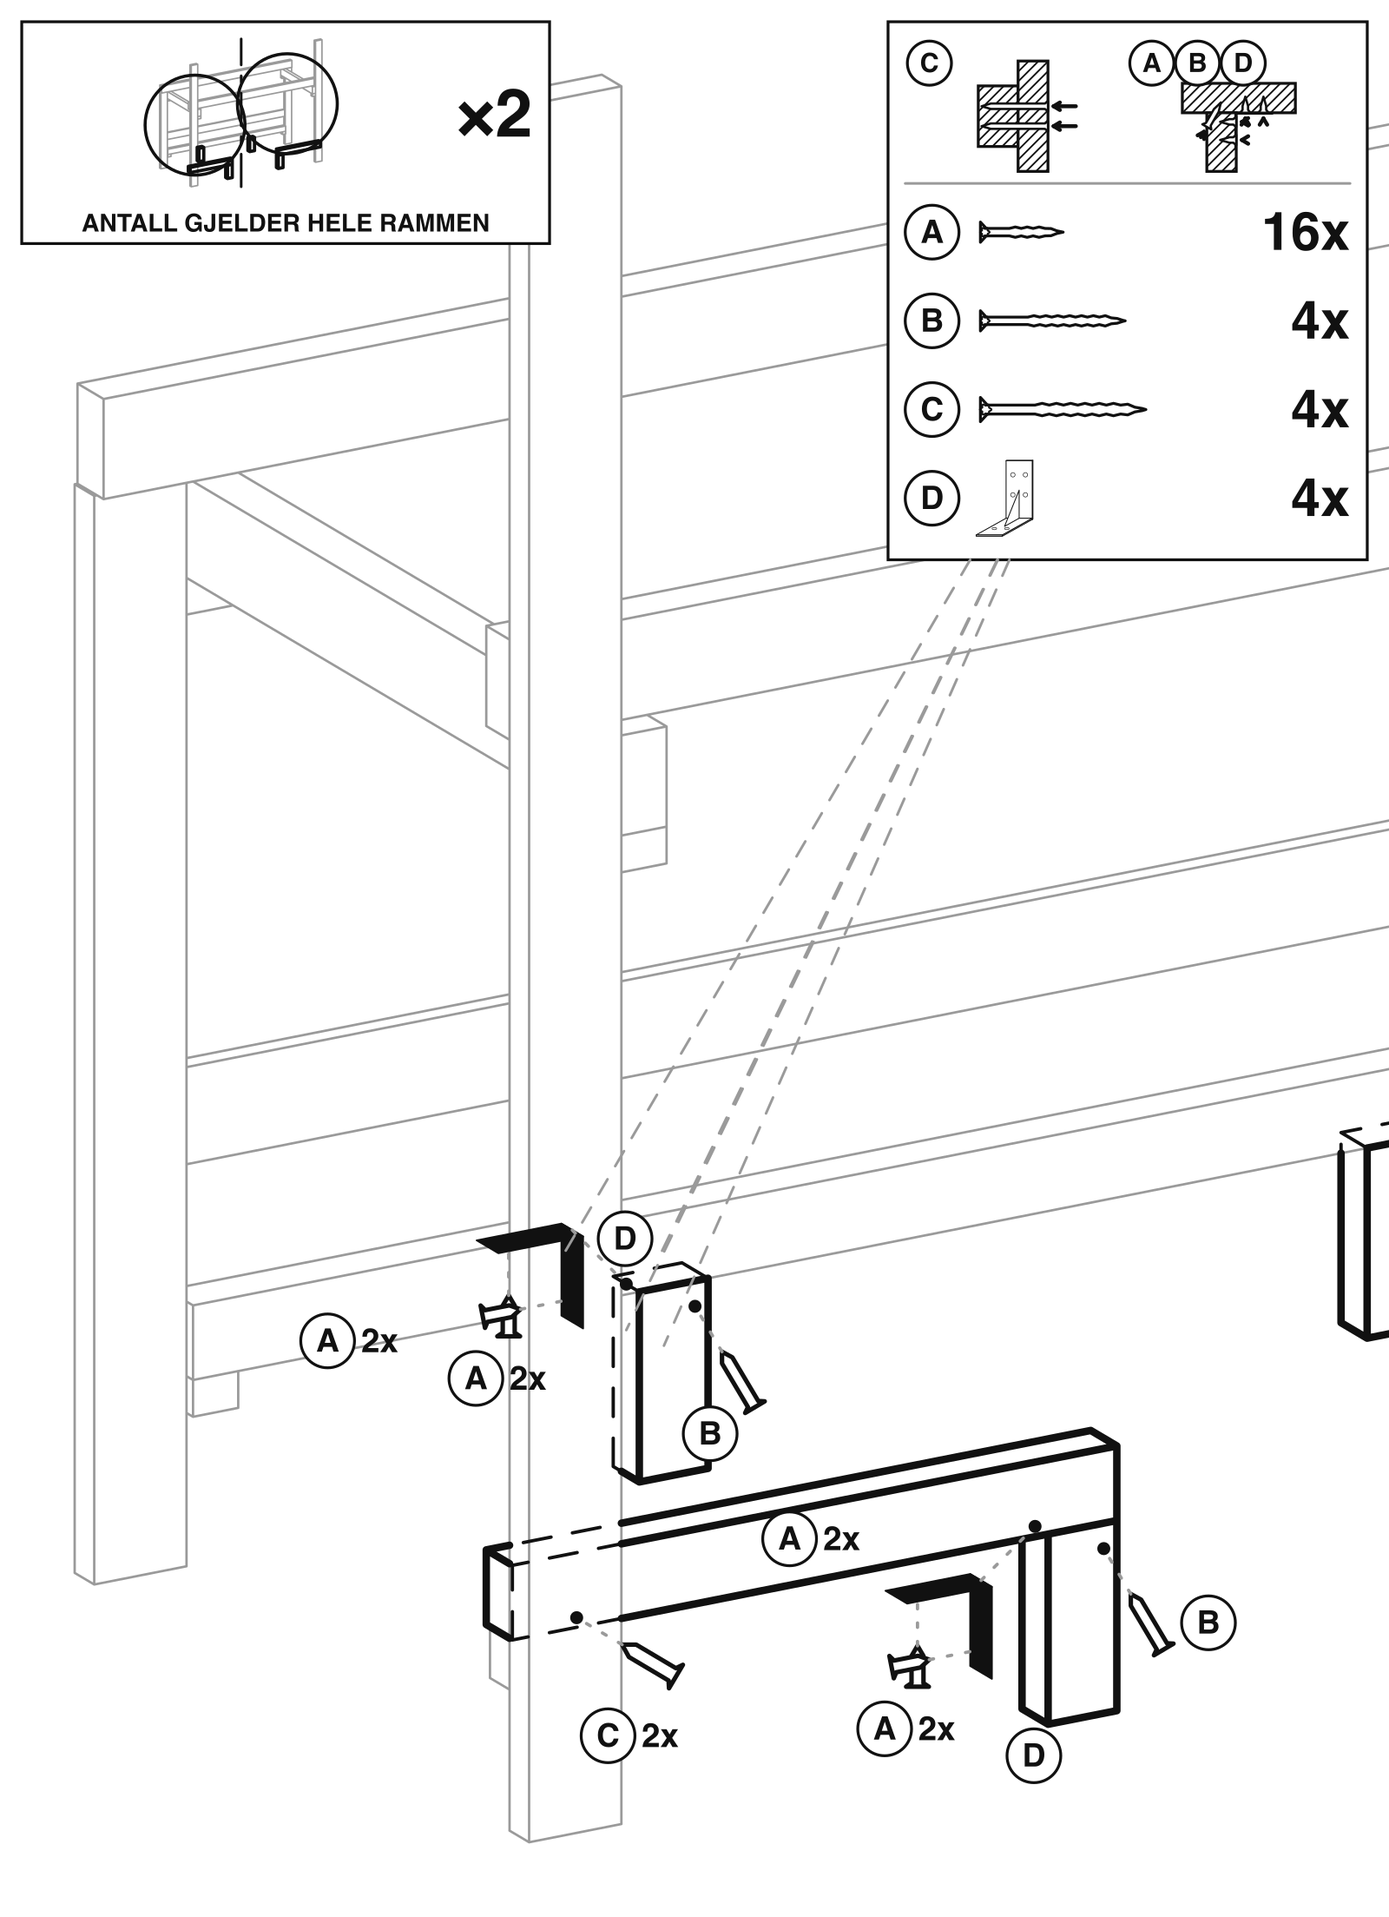
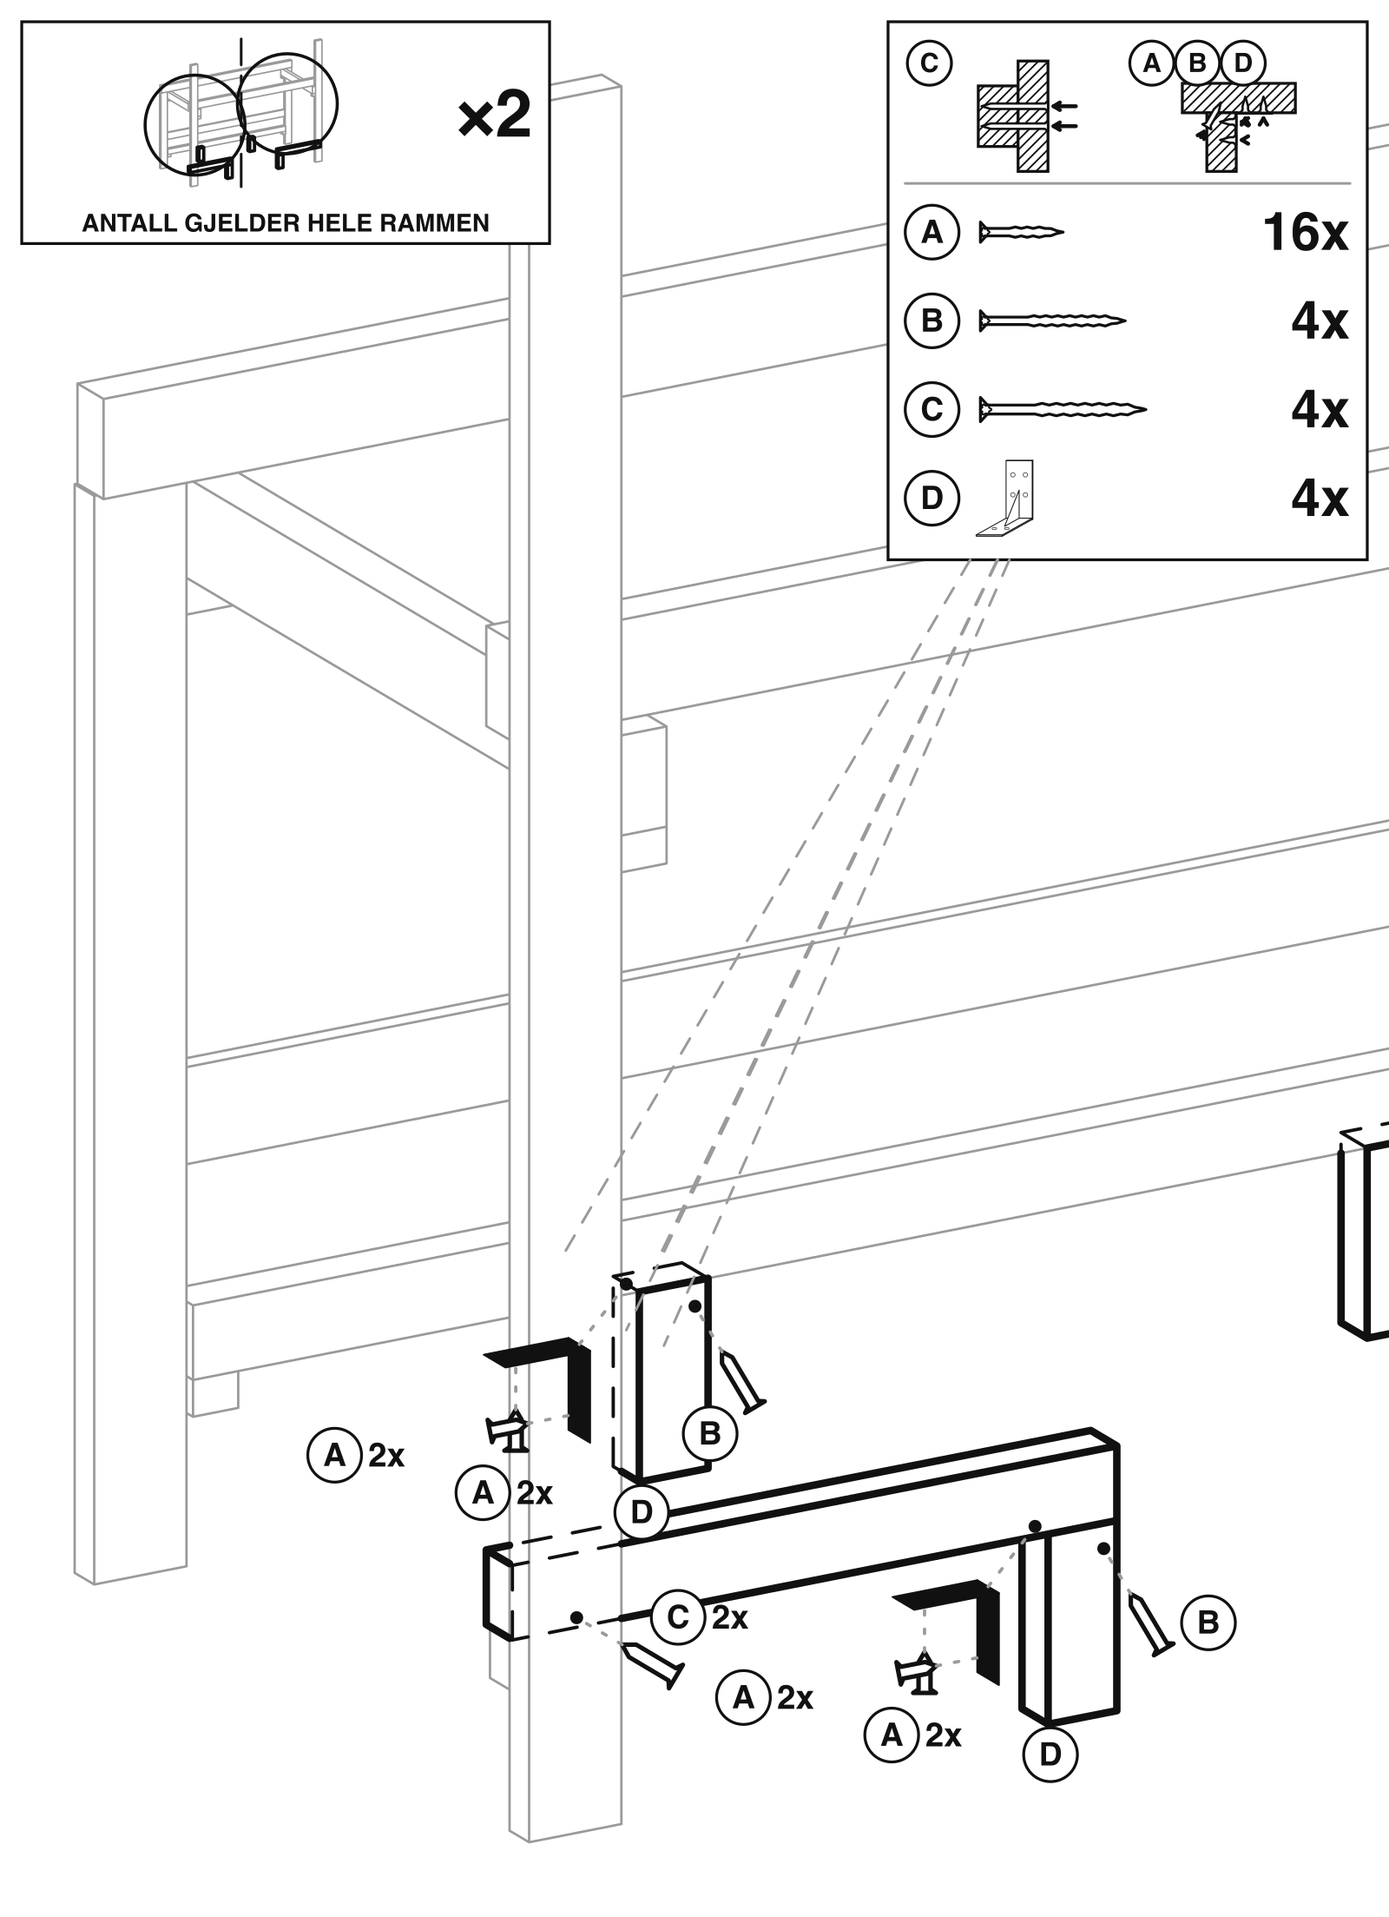
R1: et beslag flyter motsatt vei av skruene som holder det
clear_diagonal() prøvde alle fire diagonalene og valgte den med mest hvitt
papir under seg. Det er en gjetning om PAPIRET forkledd som tegnekonvensjon,
og på steg 1 tok den feil på den ene måten som betyr noe: J12-vinkelbeslaget
fløt opp-og-venstre, altså INN i bordbærelekta det er skrudd fast i undersiden
av.

Retningen er ikke en smakssak, og modellen vet den allerede. Et beslag holdes
av skruene sine, så den eneste veien det kommer av er baklengs langs dem:
negér resultanten av drivvektorene til hver skrue som går gjennom det.
disassembly_dir() gjør det, plate_screws() henter skruene ut av modellen (ikke
ut av sidens merker — et beslag tas av på samme måte enten siden har slått
sammen to av skruene til ett merke eller ikke), og float_plate() lar
layout.place() velge det ene som er igjen: hvor langt ut.

J12 x=98: skruene går (-1,0,0) inn i stolpen og (0,0,+1) opp i lekta, så
beslaget forlater i (+1,0,-1)/√2 — ut fra stolpen og NED. Speilingen på
x=1892, som er den steg 1 faktisk tegner, gir (-1,0,-1): ut fra stolpen og
ned, på siden ned-og-høyre. J10s fire beslag på steg 5 følger samme regel.

assert_float_direction() måler BLEKKET: den henter det tegnede beslagets
tyngdepunkt ut av Page.record — den nye lista over hva som faktisk ble
emittert, med geometri og eier — og sammenligner med tyngdepunktet det samme
beslaget ville hatt på setet sitt. Mønsteret er assert_on_axis sitt.

clear_back() flyttet over på layout.Occupancy samtidig, så ink_clearance og
[…]

diff --git a/tools/render_lineart.py b/tools/render_lineart.py
@@ -397,13 +397,14 @@ AXIS_ON_PAGE = FORESHORTEN_FLOOR * 0.5
 # their shared axis - are separated by QUEUEING them, each one a body further
 # back along that same axis. Both of them stay on the line.
 #
-# A BRACKET has no drive axis. It lies flat against two faces, and "backing it
-# out" along anything drives it into the timber it sits on. So it gets the one
-# move a screw is denied: a short DIAGONAL float on the PAPER, out in x and y,
-# close enough to its seat that the dotted leash back is unmistakable. Its own
-# screws then explode along their axes from where the BRACKET ended up, and
-# two screws entering from each side reads straight off the main drawing -
-# which is why those brackets no longer need a magnifier to be understood.
+# A BRACKET has no drive axis of its own, but it is not free either: it comes
+# off BACKWARDS ALONG THE SCREWS THAT HOLD IT, and that direction is a fact
+# about the joint rather than about the paper. See R1 under WHICH WAY A
+# BRACKET COMES OFF: the float is the negated resultant of its own screws'
+# drive vectors, and the only thing left free is how FAR out. Its own screws
+# then explode along their axes from where the BRACKET ended up, and two
+# screws entering from each side reads straight off the main drawing - which
+# is why those brackets no longer need a magnifier to be understood.
 #
 # Both are fractions of the page's short side, so a cropped page gets the same
 # picture at its own scale.
@@ -418,70 +419,131 @@ def _unit2(a, b):
     return (dx / n, dy / n, n) if n > 1e-9 else (0.0, 0.0, 0.0)
 
 
-def _seg_dist(p, a, b):
-    vx, vy = b[0] - a[0], b[1] - a[1]
-    ll = vx * vx + vy * vy
-    if ll < 1e-12:
-        return math.hypot(p[0] - a[0], p[1] - a[1])
-    t = ((p[0] - a[0]) * vx + (p[1] - a[1]) * vy) / ll
-    t = 0.0 if t < 0.0 else (1.0 if t > 1.0 else t)
-    return math.hypot(p[0] - (a[0] + vx * t), p[1] - (a[1] + vy * t))
+# ---------------------------------------------------------------------------
+# R1 - WHICH WAY A BRACKET COMES OFF
+# ---------------------------------------------------------------------------
+# A screw explodes along its own drive axis; that direction is given and this
+# file never chooses it. A BRACKET has no drive axis of its own, and the way
+# it used to be floated - try all four diagonals, keep the one with the most
+# white paper under it - was a guess about the PAPER dressed up as a drawing
+# convention. It got J12 exactly backwards: the angle bracket under the table
+# ledger floated up and to the left, which is INTO the ledger it is screwed to
+# the underside of.
+#
+# The direction is not a matter of taste, and the model already knows it. A
+# bracket is held by its screws, so the only way it comes off is BACKWARDS
+# ALONG THEM: negate the resultant of the drive vectors of every fastener
+# that passes through it, project that, and float it that way. J12's two
+# screws go (-1,0,0) into the post and (0,0,+1) up into the ledger, so the
+# bracket leaves at (+1,0,-1)/root 2 - out from the post and DOWN, away from
+# everything it touches. That is disassembly, and it is what an exploded view
+# is a picture of.
+def plate_screws(G, plate):
+    """Every fastener that passes THROUGH one bracket, straight off the model.
 
-
-def ink_clearance(p, plines, cap):
-    """How much white paper is round `p`, given up on once `cap` is reached.
-
-    The bed is drawn as line work, so "is there room here" is the distance to
-    the nearest SEGMENT - not to the nearest projected vertex. A 1794 mm rail
-    is two points and a hundred model millimetres of clearance from either end
-    of it says nothing about the edge running between them.
+    Taken from the model rather than from the page's surviving marks on
+    purpose: a bracket comes off the way it is held, and that is true whether
+    or not this page happens to have merged two of its screws into one badge
+    or cropped the far end of the bed away.
     """
-    best = cap
-    for pl in plines:
-        for a, b in zip(pl, pl[1:]):
-            if (min(a[0], b[0]) - p[0] > best or p[0] - max(a[0], b[0]) > best
-                    or min(a[1], b[1]) - p[1] > best
-                    or p[1] - max(a[1], b[1]) > best):
-                continue
-            d = _seg_dist(p, a, b)
-            if d < best:
-                best = d
-    return best
+    return [f for f in G.FASTENER_SPECS
+            if f["kind"] != "plate" and f["jid"] == plate["jid"]
+            and screw_on_plate(plate, f)]
 
 
-def clear_diagonal(plines, seat, step, span):
-    """Which way to float an exploded BRACKET off its seat.
+def disassembly_dir(view, plate, screws):
+    """The unit direction a bracket floats in, in the drawing's own frame.
 
-    All four diagonals are tried, the path the bracket would take is sampled
-    along each of them, and the one with the most white paper under it wins.
-    Diagonal on purpose: a bracket floated straight out along x or y reads as
-    a part sliding along the timber it is bolted to, and out along x AND y at
-    once is the one direction no member of this bed runs in.
+    Three sources, in order, and the second and third are only ever reached by
+    a camera that has flattened the first:
 
-    Screws never come here. A screw that steps sideways off its own axis has
-    stopped saying where it goes.
+      1. minus the resultant of the screws' drive vectors - the disassembly
+         direction proper;
+      2. failing that (no screws, or drives that cancel exactly), out along
+         the bracket's own normal, i.e. off the face it lies against;
+      3. failing even that - the direction points straight at the reader and
+         has no length on the page - straight down the page, which is the one
+         direction that cannot be mistaken for a member of this bed.
     """
-    best, best_v = None, (step, step)
-    for sx in (1.0, -1.0):
-        for sy in (1.0, -1.0):
-            room = min(
-                ink_clearance((seat[0] + step * sx * t,
-                               seat[1] + step * sy * t), plines, span)
-                for t in (0.6, 1.0, 1.4))
-            if best is None or room > best + 1e-9:
-                best, best_v = room, (step * sx, step * sy)
-    return best_v
+    v = tuple(-sum(f["direction"][j] for f in screws) for j in range(3))
+    if math.hypot(*v) < 1e-9:
+        v = tuple(-c for c in plate["direction"])
+    for cand in (v, tuple(-c for c in plate["direction"])):
+        dx, dy = view.dir_xy(cand)
+        n = math.hypot(dx, dy)
+        if n > 1e-6:
+            return (dx / n, dy / n)
+    return (0.0, -1.0)
 
 
-def clear_back(dark, hole, u, body, base, step, want, tries=4):
+def plate_page_points(view, plate, off=(0.0, 0.0)):
+    """The bracket's drawn corners on the page - what the ink actually is."""
+    return [(view.xy(p)[0] + off[0], view.xy(p)[1] + off[1])
+            for q in plate_quads(plate) for p in q]
+
+
+def _centroid(pts):
+    return (sum(p[0] for p in pts) / len(pts),
+            sum(p[1] for p in pts) / len(pts))
+
+
+def float_plate(occ, view, plate, screws, hop):
+    """Where an exploded bracket goes: R1 for the direction, the field for how
+    far. The DIRECTION is given - the caller does not get a vote and neither
+    does the paper - so the only thing left to choose is the distance, and
+    that is a single run of layout.place() over candidates strung out along
+    that one line. A bracket that finds no room simply goes further out; it
+    never leans, for the same reason a screw never does.
+    """
+    ux, uy = disassembly_dir(view, plate, screws)
+    pts = plate_page_points(view, plate)
+    xs = [p[0] for p in pts]
+    ys = [p[1] for p in pts]
+    home = _centroid(pts)
+    foot = (max(xs) - min(xs), max(ys) - min(ys))
+    cands = [(home[0] + ux * hop * k, home[1] + uy * hop * k)
+             for k in (1.0, 1.4, 1.9, 2.5)]
+    at = layout.place(cands, foot, occ, tether=home, pull=1.0 / (hop * 6.0))
+    return (at[0] - home[0], at[1] - home[1])
+
+
+def assert_float_direction(page, view, plate, want, jid):
+    """The float is checked against the rule, measured off the INK.
+
+    The drawn bracket's centroid is taken out of the page's own record of what
+    it emitted - not out of the offset that was computed - and compared with
+    the centroid the same bracket would have had sitting on its seat. A
+    drawing that floats a bracket into the timber it hangs under does not get
+    written.
+    """
+    drawn = [r for r in page.record
+             if r["kind"] == "plate" and r["owner"] == id(plate)]
+    assert len(drawn) == 1, (
+        f"{jid}: beslaget ble tegnet {len(drawn)} ganger - regelen kan bare "
+        f"sjekkes mot ett blekkspor")
+    home = _centroid(plate_page_points(view, plate))
+    moved = _centroid(drawn[0]["points"])
+    step = (moved[0] - home[0], moved[1] - home[1])
+    assert math.hypot(*step) > 1e-6, (
+        f"{jid}: beslaget er tegnet oppa setet sitt - en eksplodert del som "
+        f"ikke har flyttet seg forteller ingenting om hvordan den tas av")
+    dev = _angle_between(step, want)
+    assert dev is not None and dev < AXIS_TOL_DEG, (
+        f"{jid}: beslaget flyter {dev:.2f} grader av demonteringsretningen "
+        f"(minus resultanten av skruene som holder det) - se "
+        f"disassembly_dir()")
+
+
+def clear_back(occ, hole, u, body, base, step, want, tries=4):
     """How far back along its own axis an exploded screw has to sit.
 
-    The one degree of freedom a screw is allowed. Its body is sampled at each
-    candidate distance and the SHORTEST hop that finds white paper for the
-    whole of it wins; if none does, the roomiest one does. Only the black line
-    work counts - a screw is welcome to lie across the ghosted frame that is
-    already standing, and on a page where everything is new there is nothing
-    to be precious about anyway.
+    The one degree of freedom a screw is allowed - the same freedom, and the
+    same only freedom, that float_plate() leaves a bracket. Its body is
+    sampled at each candidate distance in the occupancy field and the SHORTEST
+    hop that finds white paper for the whole of it wins; if none does, the
+    roomiest one does. Only the BLACK line work counts - a screw is welcome to
+    lie across the ghosted frame that is already standing, and on a page where
+    everything is new there is nothing to be precious about anyway.
 
     What it never does is lean. A screw that cannot find room on its axis
     comes further out along it, and if there is still no room it stays where
@@ -491,9 +553,9 @@ def clear_back(dark, hole, u, body, base, step, want, tries=4):
     best, best_d = None, base
     for k in range(tries):
         d = base + k * step
-        room = min(ink_clearance((hole[0] - u[0] * (d - body * t),
+        room = min(occ.clearance((hole[0] - u[0] * (d - body * t),
                                   hole[1] - u[1] * (d - body * t)),
-                                 dark, want)
+                                 want, tags=("dark",))
                    for t in (0.0, 0.35, 0.7, 1.0))
         if room >= want - 1e-9:
             return d
@@ -635,6 +697,12 @@ def draw_fastener(page, view, m, style, shift=(0.0, 0.0, 0.0), stack=0,
         else:
             for pl in polys:
                 page.poly(pl, fill="#ffffff", stroke=INK, width=T.W_RULE)
+        page.record.append(dict(kind="plate", owner=id(f), jid=f["jid"],
+                                name=f["name"],
+                                # without each ring's repeated closing point,
+                                # so the recorded centroid is the polygon's
+                                # and not a corner counted twice
+                                points=[q for pl in polys for q in pl[:-1]]))
         seat = view.xy(anchor)
         run_end = view.xy(tuple(a + r * f["reach"]
                                 for a, r in zip(anchor, f["run"])))
@@ -675,6 +743,8 @@ def draw_fastener(page, view, m, style, shift=(0.0, 0.0, 0.0), stack=0,
     # so their midpoint is the head centre, and prof[3] is the point.
     body = (((outline[0][0] + outline[-1][0]) / 2,
              (outline[0][1] + outline[-1][1]) / 2), outline[3])
+    page.record.append(dict(kind="screw", owner=id(f), jid=f["jid"],
+                            name=f["name"], points=list(outline), axis=body))
     return p0, p1, body
 
 
@@ -842,6 +912,14 @@ class Page:
         # Where the badge letters have already landed, so the next row can
         # step out of their way instead of on top of them.
         self.badge_spots = []
+        # WHAT ACTUALLY WENT ON THE PAPER. Every drawn body, badge and label
+        # registers itself here with its geometry and its owner, and the
+        # asserts read THIS rather than the numbers that went in. It is the
+        # same discipline assert_on_axis() has always kept - it takes the axis
+        # out of the polygon that was emitted, not out of the intention - and
+        # it is the only kind of check that cannot be satisfied by meaning
+        # well. A rule the drawing breaks silently is not a rule.
+        self.record = []
 
     @property
     def w(self):
@@ -1837,12 +1915,16 @@ def render_step(G, view, st, uni, placed, out_dir, width, page_box, glyph_dir,
     style = "eksplodert" if len(keep) <= EXPLODE_MAX else "in situ"
     short = min(page.w, page.h)
     hover = short * EXPLODE_FRAC
-    float_d = short * EXPLODE_PLATE_FRAC * 0.7071      # per axis: x and y
-    ink = combined.get("prior", []) + new_only
-    # What is drawn in BLACK. A screw is allowed to lie over the ghosted frame
-    # that is already standing - that is what ghosting is for - but not over
-    # the piece this step is about.
-    dark = new_only + combined.get("new", [])
+    float_d = short * EXPLODE_PLATE_FRAC
+    # THE OCCUPANCY FIELD: everything already on the paper, in one place, so
+    # every rule that has to ask "is there room here" asks the same object.
+    # The two layers are not the same thing to a fastener - it is welcome to
+    # lie across the ghosted frame that is already standing, that is what
+    # ghosting is for, but not across the piece this step is about.
+    occ = layout.Occupancy()
+    occ.add_lines(combined.get("prior", []), weight=0.15, tag="grey")
+    occ.add_lines(new_only + combined.get("new", []), weight=1.0, tag="dark")
+    occ.add_box(box, weight=40.0)
     stacks = {}
     # Where the drawn fasteners actually ended up, so a caption - or a
     # magnifier placed later - cannot white one of them out.
@@ -1855,8 +1937,8 @@ def render_step(G, view, st, uni, placed, out_dir, width, page_box, glyph_dir,
     if style == "eksplodert":
         for m in keep:
             if m["spec"]["kind"] == "plate":
-                floats[id(m["spec"])] = clear_diagonal(
-                    ink, view.xy(m["spec"]["anchor"]), float_d, float_d * 2.0)
+                floats[id(m["spec"])] = float_plate(
+                    occ, view, m["spec"], plate_screws(G, m["spec"]), float_d)
     plates = [m["spec"] for m in keep if m["spec"]["kind"] == "plate"]
 
     def rides_on(f):
@@ -1904,7 +1986,7 @@ def render_step(G, view, st, uni, placed, out_dir, width, page_box, glyph_dir,
                     # seat it has left. Coaxial screws then queue up BEHIND one
                     # another on the shared axis - never beside it - so every
                     # one of them still points at the hole it belongs to.
-                    out = clear_back(dark, (hole[0] + poff[0],
+                    out = clear_back(occ, (hole[0] + poff[0],
                                             hole[1] + poff[1]),
                                      (ux, uy), blen, blen + hover,
                                      hover, f["d"] * SCREW_FATTEN * 0.75)
@@ -1935,7 +2017,11 @@ def render_step(G, view, st, uni, placed, out_dir, width, page_box, glyph_dir,
             if _apart(start, entry, 1.0):
                 page.line(start, entry, GREY, T.W_PHANTOM, dash=DASH_INSERT)
             page.dot(entry, T.ENTRY_R, colour=INK)
-            if f["kind"] != "plate":
+            if f["kind"] == "plate":
+                assert_float_direction(
+                    page, view, f,
+                    disassembly_dir(view, f, plate_screws(G, f)), m["jid"])
+            else:
                 assert_on_axis(view, f, body, tip, entry, poff, m["jid"])
             # The caption goes behind the HEAD, i.e. further from the hole -
             # the one direction that cannot land on the fastener itself.
